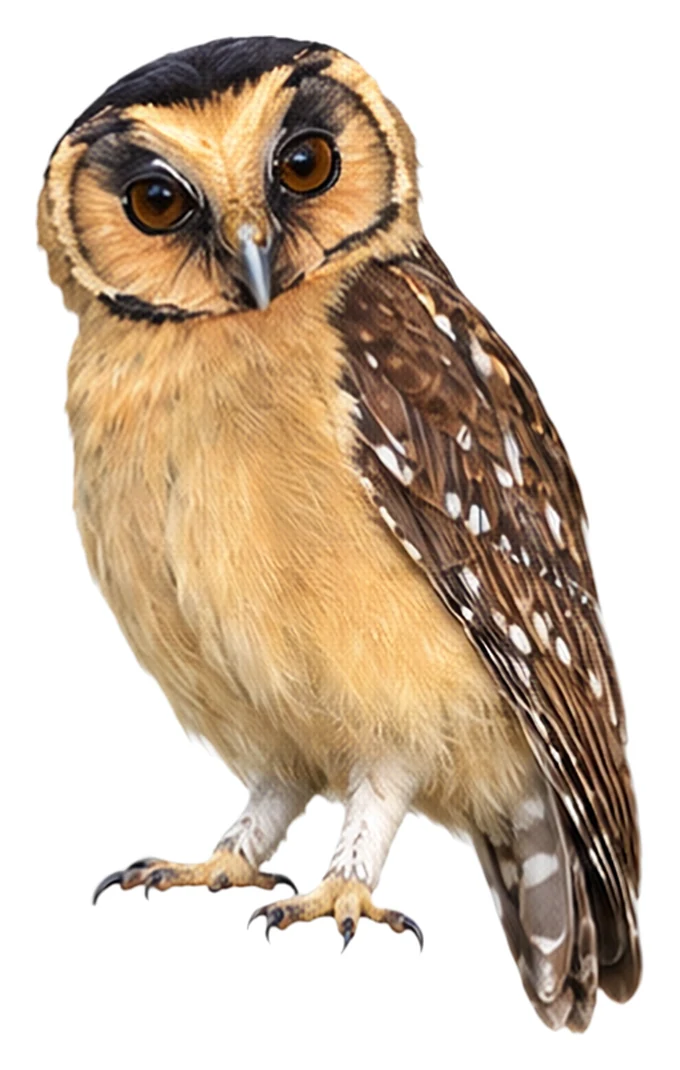
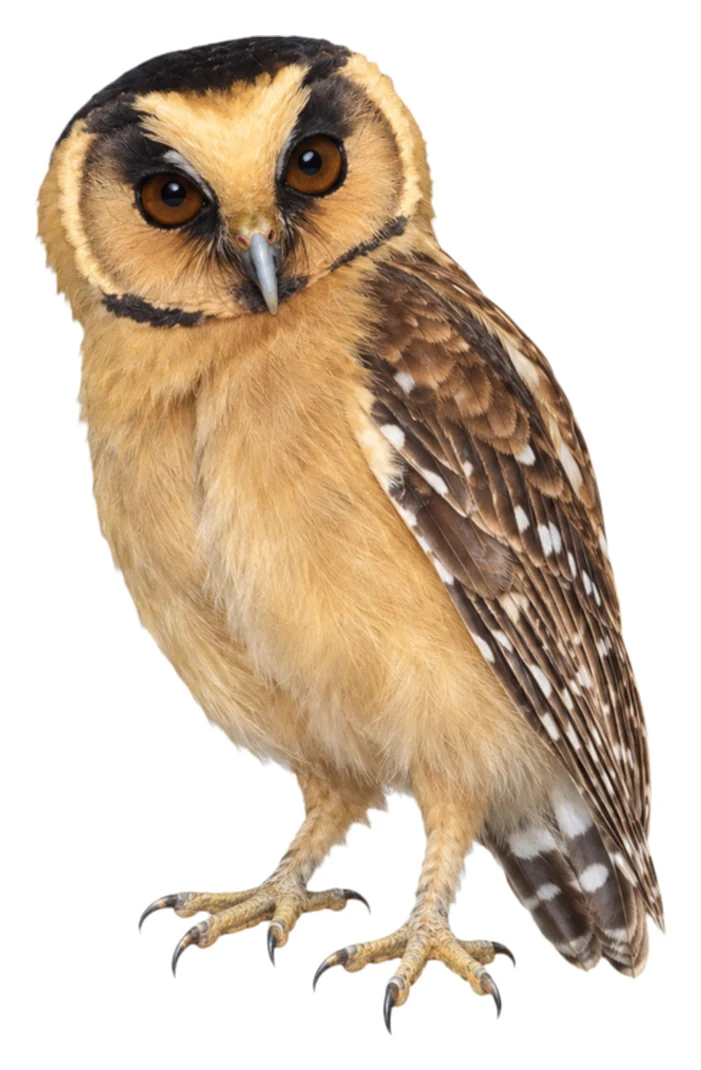
Fix toe counts on 8 owl stickers
A reader pointed out wrong toe counts in Strigiformes. We checked the feet
of all 251 owl stickers and redrew the ones that were clearly wrong (five
toes on one foot, or all four toes pointing forward), plus the Annobon
Scops Owl the reader reported. Owls have four toes per foot, usually two
forward and two back.

Redrawn: Tyto longimembris, Ninox odiosa, Micrathene whitneyi, Aegolius
harrisii, Glaucidium castanotum, Otus feae, Strix seloputo, Strix sartorii.
References are unchanged. Quality-bar counts in the READMEs are updated
(7,668 -> 7,670).

diff --git a/README.ru.md b/README.ru.md
@@ -143,8 +143,8 @@
 
 Затем каждый стикер ИИ отдельный рецензент оценивал по эталону с точки зрения полевых признаков: клюв, глаз, ноги и лапы, рисунок и цвет оперения. В последнем раунде ещё 852 пограничных стикера (80–82) прошли вторую, слепую проверку, и 211 из них её не прошли и были перерисованы. Пограничные стикеры из прежних раундов этой второй проверки не проходили.
 
-- **7668 соответствуют нашему порогу качества** (`"meetsQualityBar": true`): стикеры ИИ с оценкой 80 и выше.
-- **3396 не соответствуют.** Их перерисовывали до установленного предела, и мы оставили версию с наивысшей оценкой, чтобы ни один вид не остался без картинки. У 3281 оценка 70–79, у 109 — ниже 70, а 6 получили 80 и выше, но не прошли слепую повторную проверку.
+- **7670 соответствуют нашему порогу качества** (`"meetsQualityBar": true`): стикеры ИИ с оценкой 80 и выше.
+- **3394 не соответствуют.** Их перерисовывали до установленного предела, и мы оставили версию с наивысшей оценкой, чтобы ни один вид не остался без картинки. У 3279 оценка 70–79, у 109 — ниже 70, а 6 получили 80 и выше, но не прошли слепую повторную проверку.
 
 Это иллюстрации, а не таблицы из полевого определителя. Относитесь к ним как к дружелюбному изображению птицы, а прежде чем полагаться на тонкую деталь, сверьтесь с определителем. Если вы заметили ошибку, [создайте issue](../../issues/new/choose): поправки от орнитологов-любителей — самый ценный вклад в этот проект.
 

diff --git a/README.ar.md b/README.ar.md
@@ -143,8 +143,8 @@
 
 بعد ذلك قيّم مراجعٌ مستقل كل ملصق من ملصقات الذكاء الاصطناعي مقارنًا إياه بالمرجع من حيث علامات التمييز الميدانية: المنقار والعين والساقان والقدمان ونمط الريش ولونه. وفي الجولة الأخيرة خضع 852 ملصقًا حدّيًا (80–82) لمراجعة ثانية معمّاة، فأخفق منها 211 وأُعيد رسمها. أما الملصقات الحدّية من الجولات السابقة فلم تخضع لهذه المراجعة الثانية.
 
-- **7,668 ملصقًا تستوفي معيار الجودة لدينا** (`"meetsQualityBar": true`): ملصقات الذكاء الاصطناعي الحاصلة على 80 فأكثر.
-- **3,396 ملصقًا لا تستوفيه.** أُعيد رسمها حتى بلوغ الحد الأقصى للمحاولات، واحتفظنا بالنسخة الأعلى تقييمًا حتى لا يبقى أي نوع بلا صورة. منها 3,281 بين 70 و79، و109 دون 70، و6 حصلت على 80 فأكثر لكنها أخفقت في المراجعة الثانية المعمّاة.
+- **7,670 ملصقًا تستوفي معيار الجودة لدينا** (`"meetsQualityBar": true`): ملصقات الذكاء الاصطناعي الحاصلة على 80 فأكثر.
+- **3,394 ملصقًا لا تستوفيه.** أُعيد رسمها حتى بلوغ الحد الأقصى للمحاولات، واحتفظنا بالنسخة الأعلى تقييمًا حتى لا يبقى أي نوع بلا صورة. منها 3,279 بين 70 و79، و109 دون 70، و6 حصلت على 80 فأكثر لكنها أخفقت في المراجعة الثانية المعمّاة.
 
 هذه رسوم توضيحية وليست لوحات دليل ميداني. تعامل معها بوصفها صورة ودودة للطائر، وراجع دليلًا ميدانيًا قبل الاعتماد على أي تفصيل دقيق. وإذا لاحظت خطأً فنرجو [فتح issue](../../issues/new/choose): فتصحيحات هواة مراقبة الطيور هي أثمن مساهمة يمكن أن يتلقاها هذا المشروع.
 

diff --git a/README.ja.md b/README.ja.md
@@ -143,8 +143,8 @@
 
 AIステッカーはすべて、別の審査者が参考資料と照らし合わせ、野外での識別点を採点しました。嘴、目、脚と足、羽色と模様です。最後のラウンドでは、境界線上（80〜82点）の852枚がさらに盲検でもう一度審査され、そのうち211枚が不合格となり描き直しました。それ以前のラウンドの境界線上のステッカーには、この二次審査は行っていません。
 
-- **7,668枚が品質基準を満たしています**（`"meetsQualityBar": true`）。80点以上のAIステッカーです。
-- **3,396枚は満たしていません。** 描き直しの上限まで繰り返したうえで、最高点の版を残しました。絵のない種を作らないためです。内訳は、70〜79点が3,281枚、70点未満が109枚、80点以上だったが盲検の二次審査で不合格になったものが6枚です。
+- **7,670枚が品質基準を満たしています**（`"meetsQualityBar": true`）。80点以上のAIステッカーです。
+- **3,394枚は満たしていません。** 描き直しの上限まで繰り返したうえで、最高点の版を残しました。絵のない種を作らないためです。内訳は、70〜79点が3,279枚、70点未満が109枚、80点以上だったが盲検の二次審査で不合格になったものが6枚です。
 
 これらはイラストであり、フィールドガイドの図版ではありません。鳥の雰囲気を伝える絵として扱い、細部に頼る場合は図鑑で確認してください。間違いを見つけたら[issueを立てて](../../issues/new/choose)ください。バードウォッチャーからの訂正は、このプロジェクトにとって何よりありがたい貢献です。
 

diff --git a/README.ko.md b/README.ko.md
@@ -143,8 +143,8 @@
 
 모든 AI 스티커는 이후 별도의 검수자가 참고 자료와 대조해 야외 식별 특징을 채점했습니다. 부리, 눈, 다리와 발, 깃털의 색과 무늬입니다. 마지막 라운드에서는 경계선(80~82점)의 스티커 852장이 블라인드로 한 번 더 검수를 받았고, 그중 211장이 탈락해 다시 그렸습니다. 이전 라운드의 경계선 스티커는 이 두 번째 검수를 받지 않았습니다.
 
-- **7,668장이 품질 기준을 충족합니다**(`"meetsQualityBar": true`). 80점 이상의 AI 스티커입니다.
-- **3,396장은 충족하지 못합니다.** 다시 그리기 한도까지 반복한 뒤 가장 높은 점수의 버전을 남겼습니다. 그림이 없는 종이 생기지 않게 하기 위해서입니다. 3,281장은 70~79점, 109장은 70점 미만이며, 6장은 80점 이상이었으나 블라인드 2차 검수에서 탈락했습니다.
+- **7,670장이 품질 기준을 충족합니다**(`"meetsQualityBar": true`). 80점 이상의 AI 스티커입니다.
+- **3,394장은 충족하지 못합니다.** 다시 그리기 한도까지 반복한 뒤 가장 높은 점수의 버전을 남겼습니다. 그림이 없는 종이 생기지 않게 하기 위해서입니다. 3,279장은 70~79점, 109장은 70점 미만이며, 6장은 80점 이상이었으나 블라인드 2차 검수에서 탈락했습니다.
 
 이것은 일러스트이지 도감의 도판이 아닙니다. 새의 모습을 친근하게 보여 주는 그림으로 보시고, 세부 특징에 의존할 때는 도감으로 확인해 주세요. 잘못된 부분을 발견하면 [이슈를 열어](../../issues/new/choose) 주세요. 탐조인의 정정은 이 프로젝트가 받을 수 있는 가장 값진 기여입니다.
 

diff --git a/README.fr.md b/README.fr.md
@@ -143,8 +143,8 @@ Voici à quoi ressemble une fiche (noms abrégés) :
 
 Chaque autocollant IA a ensuite été noté par un relecteur distinct, en le comparant à la référence sur les critères de terrain : bec, œil, pattes et pieds, motif et couleur du plumage. Au dernier tour, 852 autocollants limites (80–82) ont en plus subi une seconde relecture en aveugle ; 211 d'entre eux l'ont échouée et ont été redessinés. Les autocollants limites des tours précédents n'ont pas eu cette seconde relecture.
 
-- **7 668 atteignent notre seuil de qualité** (`"meetsQualityBar": true`) : les autocollants IA notés 80 ou plus.
-- **3 396 ne l'atteignent pas.** Ils ont été redessinés jusqu'à la limite fixée, et nous avons gardé la version la mieux notée pour qu'aucune espèce ne reste sans image. 3 281 sont notés entre 70 et 79, 109 en dessous de 70, et 6 ont obtenu 80 ou plus mais ont échoué à la seconde relecture en aveugle.
+- **7 670 atteignent notre seuil de qualité** (`"meetsQualityBar": true`) : les autocollants IA notés 80 ou plus.
+- **3 394 ne l'atteignent pas.** Ils ont été redessinés jusqu'à la limite fixée, et nous avons gardé la version la mieux notée pour qu'aucune espèce ne reste sans image. 3 279 sont notés entre 70 et 79, 109 en dessous de 70, et 6 ont obtenu 80 ou plus mais ont échoué à la seconde relecture en aveugle.
 
 Ce sont des illustrations, pas des planches de guide de terrain. Voyez-les comme une image sympathique de l'oiseau, et consultez un guide de terrain avant de vous fier à un détail fin. Si vous repérez une erreur, [ouvrez un ticket](../../issues/new/choose) : les corrections des ornithologues amateurs sont la contribution la plus précieuse que ce projet puisse recevoir.
 

diff --git a/README.es.md b/README.es.md
@@ -143,8 +143,8 @@ Un registro tiene este aspecto (nombres abreviados):
 
 Después, un revisor independiente puntuó cada pegatina de IA frente a la referencia en cuanto a las marcas de campo: pico, ojo, patas y pies, patrón y color del plumaje. En la última ronda, 852 pegatinas límite (80–82) tuvieron además una segunda revisión a ciegas, y 211 de ellas no la superaron y se volvieron a dibujar. Las pegatinas límite de rondas anteriores no pasaron por esta segunda revisión.
 
-- **7668 cumplen nuestro nivel de calidad** (`"meetsQualityBar": true`): las pegatinas de IA con 80 puntos o más.
-- **3396 no lo cumplen.** Se volvieron a dibujar hasta el límite de intentos y nos quedamos con la versión de mayor puntuación para que ninguna especie quede sin imagen. 3281 puntúan entre 70 y 79, 109 puntúan por debajo de 70 y 6 obtuvieron 80 o más pero no superaron la segunda revisión a ciegas.
+- **7670 cumplen nuestro nivel de calidad** (`"meetsQualityBar": true`): las pegatinas de IA con 80 puntos o más.
+- **3394 no lo cumplen.** Se volvieron a dibujar hasta el límite de intentos y nos quedamos con la versión de mayor puntuación para que ninguna especie quede sin imagen. 3279 puntúan entre 70 y 79, 109 puntúan por debajo de 70 y 6 obtuvieron 80 o más pero no superaron la segunda revisión a ciegas.
 
 Son ilustraciones, no láminas de guía de campo. Tómelas como un dibujo amable del ave y consulte una guía de campo antes de fiarse de un detalle fino. Si encuentra un error, [abra una incidencia](../../issues/new/choose): las correcciones de observadores de aves son la contribución más valiosa que puede recibir este proyecto.
 

diff --git a/README.de.md b/README.de.md
@@ -143,8 +143,8 @@ So sieht ein Eintrag aus (Namen gekürzt):
 
 Jeder KI-Sticker wurde danach von einem eigenen Prüfer anhand der Referenz auf Bestimmungsmerkmale bewertet: Schnabel, Auge, Beine und Füße, Gefiederzeichnung und -farbe. In der letzten Runde wurden 852 Grenzfälle (80–82) zusätzlich blind ein zweites Mal geprüft; 211 davon fielen durch und wurden neu gezeichnet. Grenzfälle aus früheren Runden haben diese zweite Prüfung nicht durchlaufen.
 
-- **7.668 erfüllen unseren Qualitätsanspruch** (`"meetsQualityBar": true`): KI-Sticker mit mindestens 80 Punkten.
-- **3.396 erfüllen ihn nicht.** Sie wurden bis zur Obergrenze neu gezeichnet, und wir haben die am besten bewertete Fassung behalten, damit keine Art ohne Bild bleibt. 3.281 liegen bei 70–79 Punkten, 109 darunter, und 6 hatten 80 oder mehr, sind aber in der blinden Zweitprüfung durchgefallen.
+- **7.670 erfüllen unseren Qualitätsanspruch** (`"meetsQualityBar": true`): KI-Sticker mit mindestens 80 Punkten.
+- **3.394 erfüllen ihn nicht.** Sie wurden bis zur Obergrenze neu gezeichnet, und wir haben die am besten bewertete Fassung behalten, damit keine Art ohne Bild bleibt. 3.279 liegen bei 70–79 Punkten, 109 darunter, und 6 hatten 80 oder mehr, sind aber in der blinden Zweitprüfung durchgefallen.
 
 Das sind Illustrationen, keine Bestimmungsbuch-Tafeln. Sie sind als freundliches Bild des Vogels gedacht; bei feinen Details sollte man ein Bestimmungsbuch zurate ziehen. Wenn Sie einen Fehler entdecken, [eröffnen Sie bitte ein Issue](../../issues/new/choose): Korrekturen von Vogelbeobachtern sind der wertvollste Beitrag, den dieses Projekt bekommen kann.
 

diff --git a/README.pt.md b/README.pt.md
@@ -143,8 +143,8 @@ Um registro tem este formato (nomes abreviados):
 
 Depois, cada adesivo de IA recebeu a nota de um revisor independente, que o comparou com a referência quanto às marcas de campo: bico, olho, pernas e pés, padrão e cor da plumagem. Na última rodada, 852 adesivos limítrofes (80–82) passaram também por uma segunda revisão às cegas, e 211 deles foram reprovados e redesenhados. Os adesivos limítrofes de rodadas anteriores não passaram por essa segunda revisão.
 
-- **7.668 atingem nosso padrão de qualidade** (`"meetsQualityBar": true`): adesivos de IA com nota 80 ou mais.
-- **3.396 não atingem.** Foram redesenhados até o limite de tentativas, e ficamos com a versão de maior nota para que nenhuma espécie fique sem imagem. 3.281 têm nota de 70 a 79, 109 ficam abaixo de 70, e 6 tiraram 80 ou mais mas foram reprovados na segunda revisão às cegas.
+- **7.670 atingem nosso padrão de qualidade** (`"meetsQualityBar": true`): adesivos de IA com nota 80 ou mais.
+- **3.394 não atingem.** Foram redesenhados até o limite de tentativas, e ficamos com a versão de maior nota para que nenhuma espécie fique sem imagem. 3.279 têm nota de 70 a 79, 109 ficam abaixo de 70, e 6 tiraram 80 ou mais mas foram reprovados na segunda revisão às cegas.
 
 São ilustrações, não pranchas de guia de campo. Veja-as como um desenho simpático da ave e consulte um guia de campo antes de confiar em algum detalhe fino. Se encontrar um erro, [abra uma issue](../../issues/new/choose): correções de observadores de aves são a contribuição mais valiosa que este projeto pode receber.
 

diff --git a/README.md b/README.md
@@ -144,8 +144,8 @@ A record looks like this (names shortened):
 
 Every AI sticker was then scored by a separate reviewer against the reference for field marks: bill, eye, legs and feet, plumage pattern and colour. In the last round, 852 borderline stickers (80–82) also got a second, blind review, and 211 of them failed it and were redrawn. Borderline stickers from earlier rounds did not get this second review.
 
-- **7,668 meet our quality bar** (`"meetsQualityBar": true`): AI stickers scoring 80 or above.
-- **3,396 do not.** They were redrawn up to the limit, and we kept the best-scoring version so that no species is left without a picture. 3,281 score 70–79, 109 score below 70, and 6 scored 80+ but failed the blind second review.
+- **7,670 meet our quality bar** (`"meetsQualityBar": true`): AI stickers scoring 80 or above.
+- **3,394 do not.** They were redrawn up to the limit, and we kept the best-scoring version so that no species is left without a picture. 3,279 score 70–79, 109 score below 70, and 6 scored 80+ but failed the blind second review.
 
 These are illustrations, not field-guide plates. Treat them as a friendly picture of the bird, and check a field guide before relying on a fine detail. If you spot a mistake, please [open an issue](../../issues/new/choose) — corrections from birders are the most valuable contribution this project can get.
 

diff --git a/README.zh-Hant.md b/README.zh-Hant.md
@@ -143,8 +143,8 @@
 
 每張 AI 貼紙之後都由另一位審查者對照參考資料評分，檢查野外辨識特徵：嘴喙、眼睛、腳與趾、羽色與斑紋。最後一輪中，852 張臨界（80–82 分）的貼紙又做了一次盲審，其中 211 張未通過，已重畫。更早幾輪的臨界貼紙沒有做這次覆審。
 
-- **7,668 張達到我們的品質標準**（`"meetsQualityBar": true`）：得分 80 以上的 AI 貼紙。
-- **3,396 張未達標。** 這些貼紙已重畫到次數上限，我們留下得分最高的版本，不讓任何物種沒有圖。其中 3,281 張得分 70–79，109 張低於 70，另有 6 張得分 80 以上但未通過盲審覆審。
+- **7,670 張達到我們的品質標準**（`"meetsQualityBar": true`）：得分 80 以上的 AI 貼紙。
+- **3,394 張未達標。** 這些貼紙已重畫到次數上限，我們留下得分最高的版本，不讓任何物種沒有圖。其中 3,279 張得分 70–79，109 張低於 70，另有 6 張得分 80 以上但未通過盲審覆審。
 
 這些是插畫，不是野外圖鑑的圖版。請把它們當作鳥的親切示意圖；需要仰賴細節時，請再對照圖鑑。如果你發現錯誤，歡迎[開一個 issue](../../issues/new/choose)——賞鳥人的指正，是這個專案最珍貴的貢獻。
 

diff --git a/README.zh-Hans.md b/README.zh-Hans.md
@@ -120,8 +120,8 @@
 
 每张AI贴纸画完后，由另一位审核员对照参考照逐项核对辨识特征并打分：喙、眼、腿脚、羽色和斑纹。最后一轮里，852张80到82分压线的贴纸又由另一人盲审一遍，其中211张没通过，打回重画。更早几轮的压线贴纸没有做这道盲审。
 
-- **7668张达到我们的质量线**（`"meetsQualityBar": true`）：80分及以上的AI贴纸。
-- **3396张没有达到。** 已经重画到次数上限，为了不让任何一种鸟没有图，保留了得分最高的那一版。其中3281张在70到79分，109张低于70分，另有6张初审80分以上但没通过盲审。
+- **7670张达到我们的质量线**（`"meetsQualityBar": true`）：80分及以上的AI贴纸。
+- **3394张没有达到。** 已经重画到次数上限，为了不让任何一种鸟没有图，保留了得分最高的那一版。其中3279张在70到79分，109张低于70分，另有6张初审80分以上但没通过盲审。
 
 这些是插画，不是图鉴图版。当作一张友好的鸟的画像来用；涉及细节辨识，请以图鉴为准。发现画错了，欢迎[提issue](../../issues/new/choose)。鸟友的纠错，是这个项目最需要的贡献。
 
